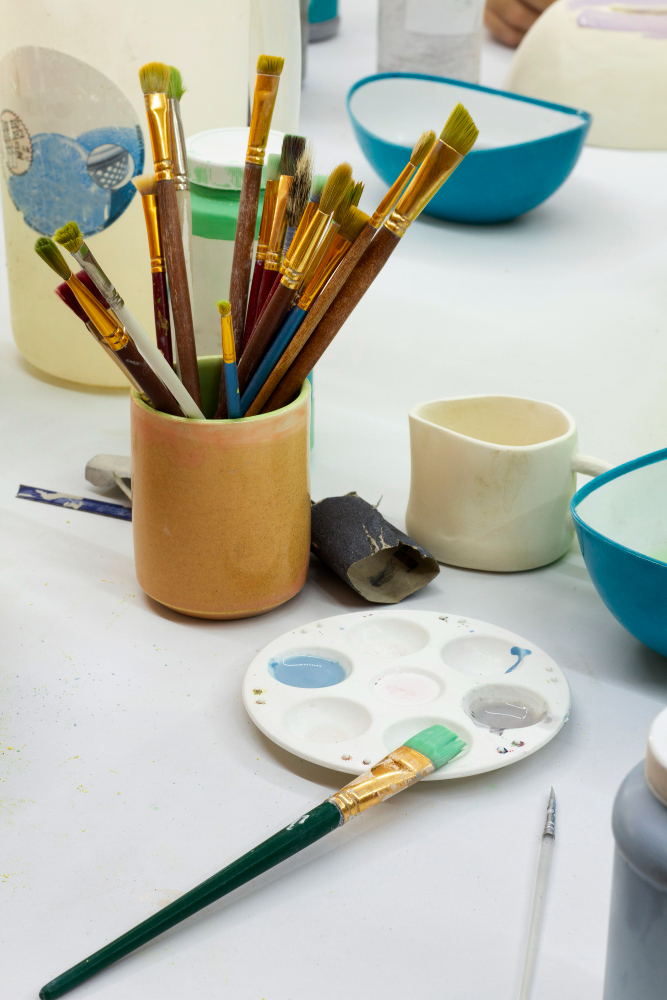
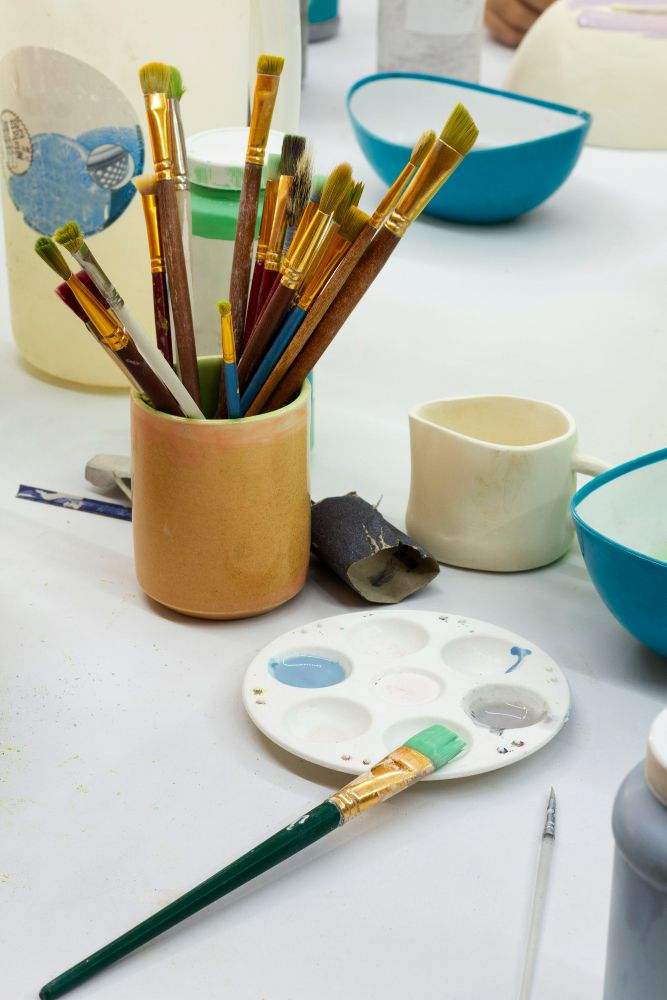
Add a photo gallery to the How-it-works page
Insert a 3-photo 'Z naszej pracowni' gallery after the hero on
jak-to-dziala.html using the uploaded photos; compress them (520-720KB
-> 55-70KB) and add responsive .photo-gallery styles.

https://claude.ai/code/session_01CXtMnpz4RRmYC9oBjWo9RT

diff --git a/jak-to-dziala.html b/jak-to-dziala.html
@@ -55,6 +55,17 @@
     </div>
   </section>
 
+  <section class="section section--tight">
+    <div class="container">
+      <span class="section-label">Z naszej pracowni</span>
+      <div class="photo-gallery">
+        <figure class="photo photo--tall"><img src="assets/2150219657.jpg" alt="Pędzle, paleta farb i ceramika gotowa do malowania" loading="lazy" width="667" height="1000"></figure>
+        <figure class="photo"><img src="assets/24749.jpg" alt="Dłonie szkliwią ceramiczną miskę pędzlem" loading="lazy" width="1000" height="667"></figure>
+        <figure class="photo"><img src="assets/12137.jpg" alt="Gość maluje kubek farbami przy palecie kolorów" loading="lazy" width="1000" height="667"></figure>
+      </div>
+    </div>
+  </section>
+
   <section class="section">
     <div class="container">
       <span class="section-label">Koncept</span>

diff --git a/css/styles.css b/css/styles.css
@@ -1035,3 +1035,26 @@ main:focus {
   .reveal { opacity: 1; transform: none; transition: none; }
   html { scroll-behavior: auto; }
 }
+
+/* ---------- Galeria zdjęć (Jak to działa) ---------- */
+
+.photo-gallery {
+  display: grid;
+  grid-template-columns: repeat(3, 1fr);
+  gap: 1.25rem;
+  margin-top: 1.5rem;
+}
+
+.photo {
+  margin: 0;
+  border-radius: var(--radius);
+  overflow: hidden;
+  box-shadow: var(--shadow);
+  aspect-ratio: 4 / 3;
+}
+
+.photo img { width: 100%; height: 100%; object-fit: cover; display: block; }
+
+@media (max-width: 720px) {
+  .photo-gallery { grid-template-columns: 1fr; }
+}
